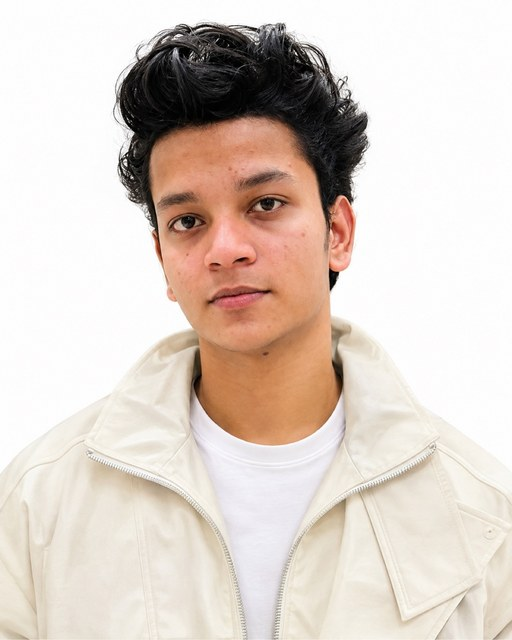
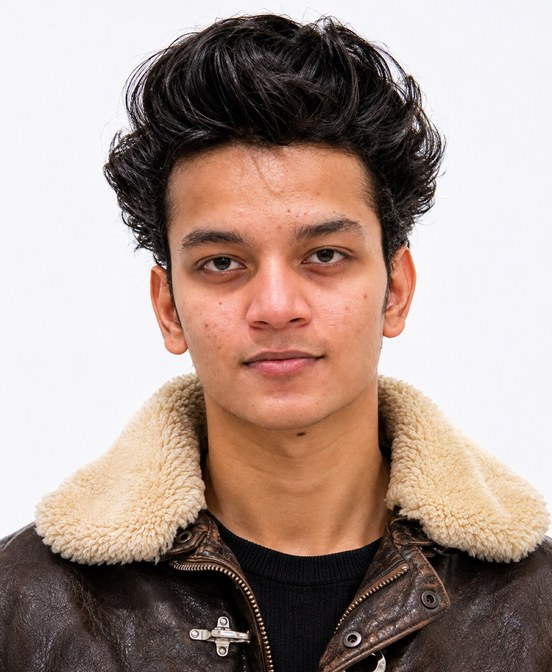
Publish portfolio: 4 models (Vaani/Caroline/Genie/Shrishti) + skills + about video

diff --git a/index.html b/index.html
@@ -77,7 +77,7 @@ img,video{display:block;max-width:100%}
 .badge .card h4{font-size:30px;line-height:.95;font-weight:800;letter-spacing:-.5px}
 .badge .card .yr{position:absolute;right:16px;top:62px;font-size:11px;font-weight:700}
 .badge .card .role{margin-top:12px;padding-top:5px;border-top:1px solid #222;font-size:9.5px;font-weight:700;letter-spacing:.2px;white-space:nowrap}
-.badge .card .ph{width:92px;height:112px;margin:12px auto;border-radius:6px;background-color:#e8e8e4;background-image:url(assets/asset-003.jpg);background-size:cover;background-position:50% 12%;background-repeat:no-repeat;box-shadow:inset 0 0 0 1px rgba(0,0,0,.06)}
+.badge .card .ph{width:92px;height:112px;margin:12px auto;border-radius:6px;background-color:#e8e8e4;background-image:url(assets/asset-003.jpg);background-size:cover;background-position:50% 50%;background-repeat:no-repeat;box-shadow:inset 0 0 0 1px rgba(0,0,0,.06)}
 .badge .card .row{display:flex;justify-content:space-between;align-items:flex-end;font-size:9px;font-weight:700;padding:6px 0 3px;border-bottom:1.5px dotted #333}
 .badge .card .row b{font-weight:600;text-align:right}
 .badge .card .row .em{font-size:8px;letter-spacing:-.2px}
@@ -285,7 +285,7 @@ body.busy .hint{visibility:hidden}
   .tag.t1{left:12px;top:12px}.tag.t2{left:auto;right:12px;top:12px}
   .tag.t3{right:auto;left:12px;top:calc(12px + var(--n)*44)}
   .tag.t4{right:12px;top:calc(12px + var(--n)*44)}
-  .m-wm{position:absolute;left:4vw;width:92vw;top:calc(12px + var(--n)*96);overflow:visible}
+  .m-wm{position:absolute;left:5vw;width:90vw;top:calc(12px + var(--n)*96);overflow:visible}
   .m-wm text{font-family:'Inter Tight';font-weight:900;font-size:208px;letter-spacing:-5px}
   .m-script{position:absolute;right:6vw;top:calc(12px + var(--n)*96 + 14vw);font-family:'Caveat Brush',cursive;font-size:15vw;line-height:1;color:#11402c;white-space:nowrap;transform:rotate(-7deg);text-shadow:0 0 6px #fff,0 0 14px #fff,0 2px 10px rgba(255,255,255,.6)}
   .m-badge{position:absolute;right:2vw;top:calc(12px + var(--n)*96 + 16.5vw + 12px);width:calc(582px*var(--mbs));height:calc(1030px*var(--mbs));z-index:5;transform-origin:50% 0;animation:sway 3.4s ease-in-out infinite alternate;touch-action:none;cursor:grab}
@@ -706,9 +706,11 @@ function pose(m){
   }
   if(isMobile()){
     /* person torso bbox x 333..979, centre 656 — centre him, frame bottom sits at the viewport bottom.
-       Framed wide enough (W/706) that his face reads big and clear and the laptop he holds stays mostly in frame.
-       Bottom-anchored at frame y 712, so the visible window always runs head (y~15) to waist (y~665). */
-    s = Math.min(W/706, 0.66*H/720); x = W/2 - 656*s; y = H - 712*s;
+       Framed at W/640 — a little bigger than the old W/706 so he reads clearly on a phone, while the
+       visible window (640 frame px, x 336..976) still holds essentially the whole torso and the laptop.
+       Bottom-anchored at frame y 712, so the visible window always runs head (y~15) to waist (y~665),
+       the same head-to-waist framing as desktop. */
+    s = Math.min(W/640, 0.72*H/720); x = W/2 - 656*s; y = H - 712*s;
     return {x:x, y:y, s:s};
   }
   /* HEAD-TO-WAIST framing: the scale is capped by H/700 and the frame is bottom-anchored at frame
@@ -741,7 +743,7 @@ function place(m){
   frame.classList.toggle('m-case', m === 'case');
   stage.classList.toggle('m-case', m === 'case');
   if(isMobile()){
-    var bw = Math.max(118, Math.min(0.38*W, 205));
+    var bw = Math.max(138, Math.min(0.46*W, 238));
     root.style.setProperty('--mbs', (bw/582).toFixed(4));
   }
   if(m === 'hero' && !isMobile()) fitHero(p);
